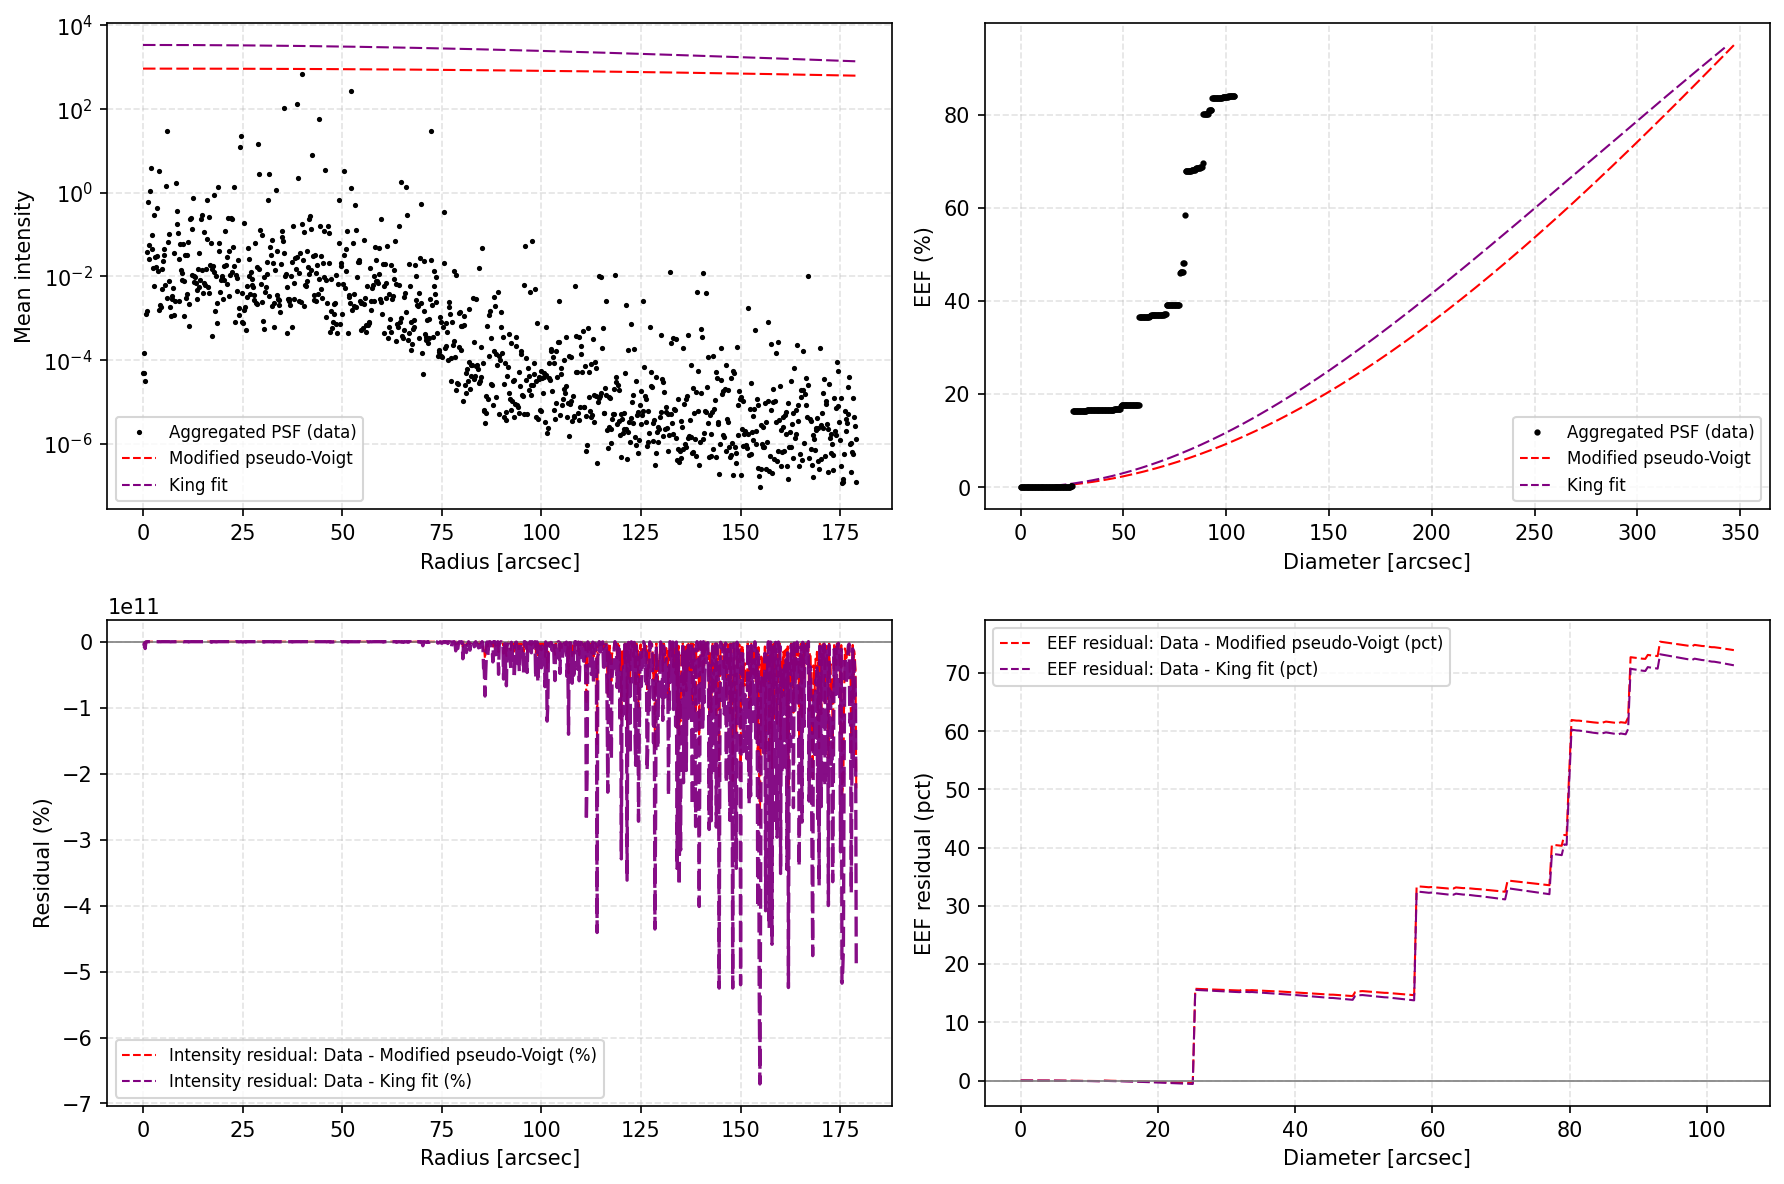
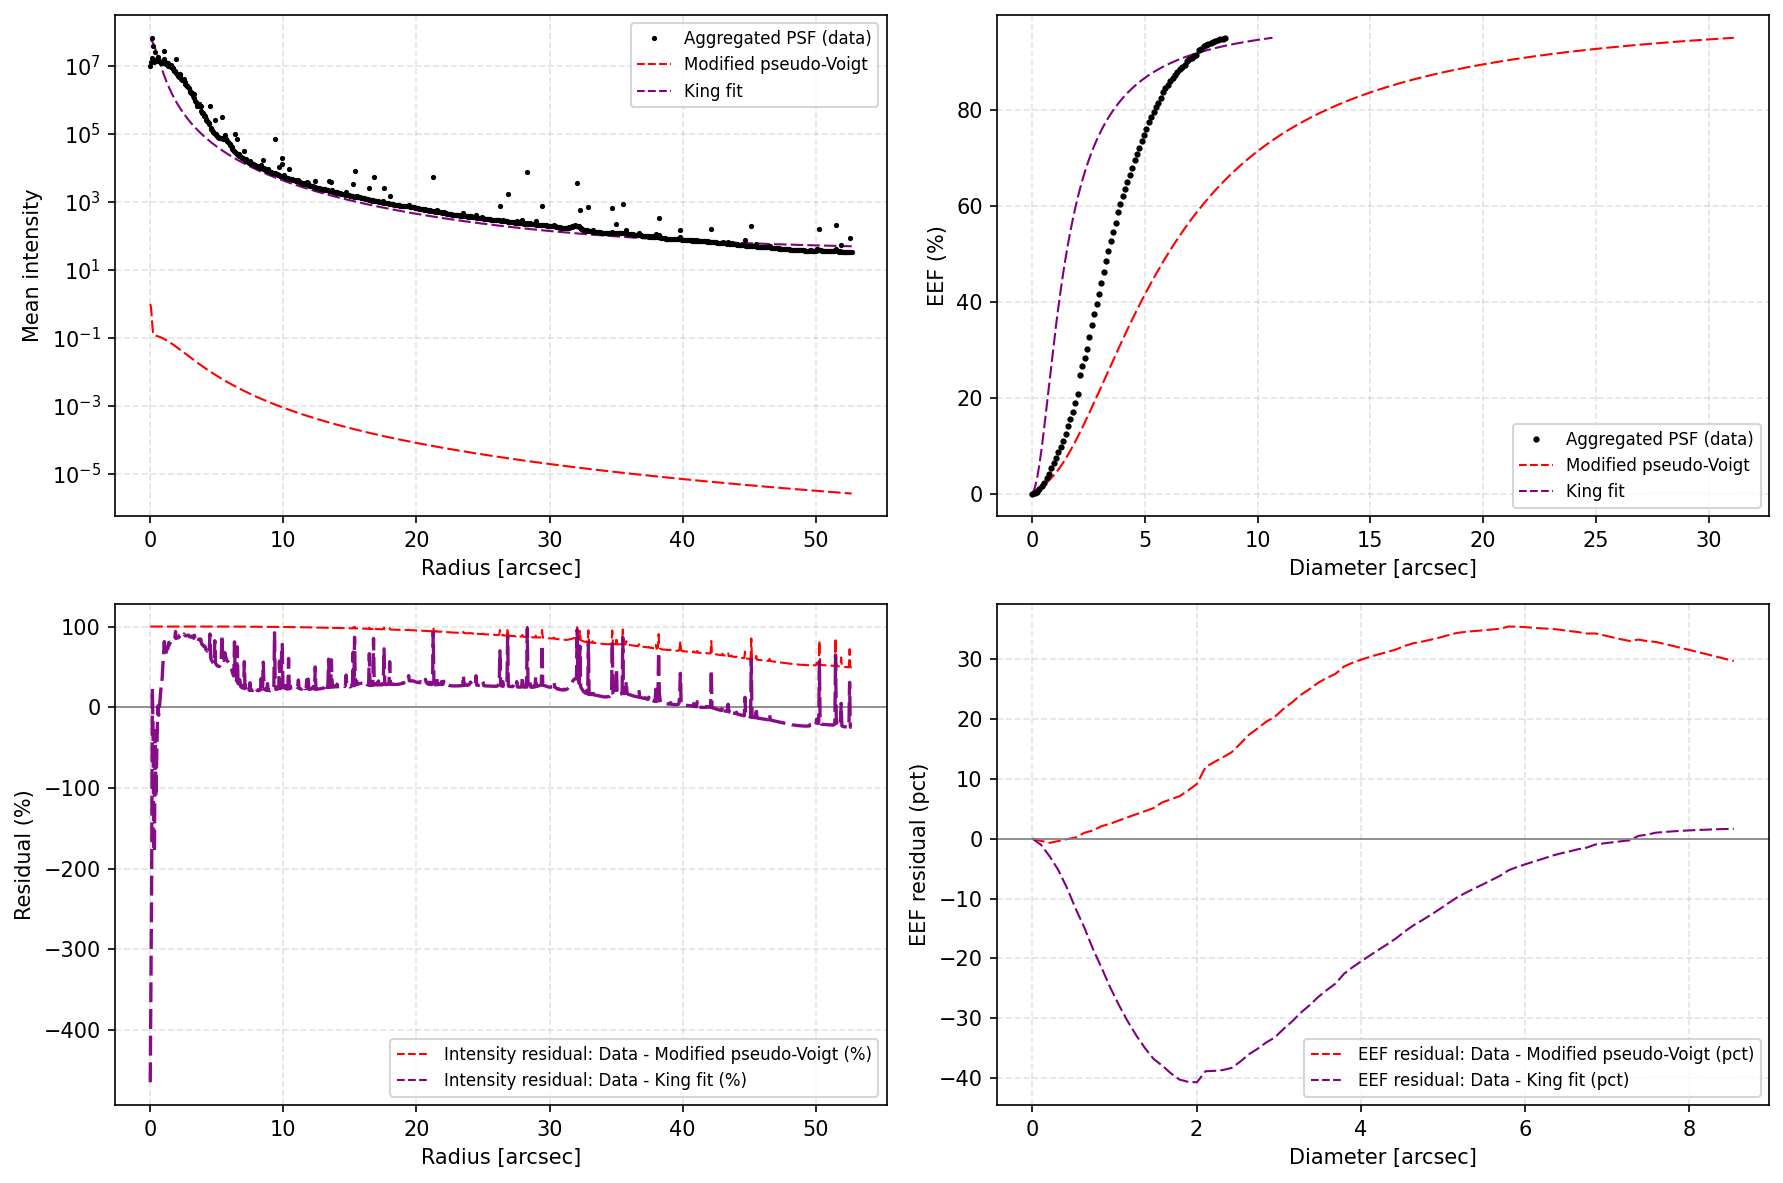
Fix MM_PSF sigma handling: resolve VLOOKUP formulas and write degraded sigma to I/J
- Add Python-based VLOOKUP fallback resolver for MM_PSF columns D/E (base
  sigma_rad/sigma_azi). When openpyxl strips cached formula values on save,
  the resolver reads 'MM configuration' (MM# → Row#) and the preset table
  at M30:Q45 (Row# → sigma_rad/sigma_azi) to reconstruct the base sigma
  values. This prevents D/E from returning NaN on subsequent runs.

- Persist D/E base sigma values as plain numbers (replacing VLOOKUP formulas)
  in both save points (initial wb.save and wb_hew.save), ensuring round-trip
  stability across openpyxl read/write cycles.

- Write per-position sigma_extra (HEW degradation converted to sigma) to
  'Extra PSF degradations' sheet columns B/C in arcsec.

- Write final degraded sigma (sqrt(base² + extra²)) to MM_PSF columns I/J
  with headers 'sigma_rad_deg [arcsec]' and 'sigma_azi_deg [arcsec]'.

- Shift preset distribution table from column K to column M in gui_distributions.py
  to avoid conflict with the new I/J degraded sigma columns.

- Update fitting_performance.png with latest aggregation results.

diff --git a/main.py b/main.py
@@ -534,6 +534,105 @@ def load_gaussians_from_excel(path: str, sheet: str | None = None, fast_metrics:
                             df.at[idx, 'sigma_rad [arcsec]'] = sigma_map_rad[mmv]
                         if mmv in sigma_map_azi:
                             df.at[idx, 'sigma_azi [arcsec]'] = sigma_map_azi[mmv]
+
+                    # Fallback: when D/E cached values are missing (openpyxl
+                    # strips formula caches on save), resolve the VLOOKUP
+                    # manually using the preset table and MM configuration.
+                    # Formula: =VLOOKUP(VLOOKUP($A,'MM configuration'!A:H,3), M31:Q45, 4/5)
+                    # Inner: MM# -> Row# via 'MM configuration' col A->C
+                    # Outer: Row# -> sigma from preset table col 4(P)/5(Q)
+                    rad_check = pd.to_numeric(df.get('sigma_rad [arcsec]'), errors='coerce')
+                    azi_check = pd.to_numeric(df.get('sigma_azi [arcsec]'), errors='coerce')
+                    missing_de = rad_check.isna() | azi_check.isna() | (rad_check <= 0.0) | (azi_check <= 0.0)
+                    if missing_de.any():
+                        try:
+                            # Build MM# -> Row# from 'MM configuration'
+                            mm_to_rownum = {}
+                            cfg_sheet = None
+                            for s in wb_vals.sheetnames:
+                                if s.lower() == 'mm configuration':
+                                    cfg_sheet = s
+                                    break
+                            if cfg_sheet is not None:
+                                ws_cfg = wb_vals[cfg_sheet]
+                                for r in range(2, (ws_cfg.max_row or 0) + 1):
+                                    pos_v = ws_cfg.cell(row=r, column=1).value
+                                    row_v = ws_cfg.cell(row=r, column=3).value
+                                    if pos_v is not None and row_v is not None:
+                                        try:
+                                            mm_to_rownum[int(float(pos_v))] = int(float(row_v))
+                                        except Exception:
+                                            pass
+
+                            # Build Row# -> (sigma_rad, sigma_azi) from preset
+                            # table in MM_PSF.  Detect preset region dynamically:
+                            # scan column M (13) for a cell containing "Row" as
+                            # header, then read rows below until blank.
+                            rownum_to_sigma = {}
+                            ws_psf_f = None
+                            try:
+                                wb_formulas = _load_wb_vals.__self__ if hasattr(_load_wb_vals, '__self__') else None
+                            except Exception:
+                                wb_formulas = None
+                            # Use the non-data_only workbook to read preset table
+                            # (it has plain values, not formulas)
+                            try:
+                                from openpyxl import load_workbook as _load_wb_f
+                                wb_f_tmp = _load_wb_f(path, data_only=False)
+                                for s in wb_f_tmp.sheetnames:
+                                    if s.lower() == 'mm_psf':
+                                        ws_psf_f = wb_f_tmp[s]
+                                        break
+                            except Exception:
+                                ws_psf_f = None
+                            if ws_psf_f is not None:
+                                # Find the preset header row (cell in col M containing "Row")
+                                preset_header_row = None
+                                for r in range(2, (ws_psf_f.max_row or 0) + 1):
+                                    v = ws_psf_f.cell(row=r, column=13).value
+                                    if v is not None and str(v).strip().lower() == 'row':
+                                        preset_header_row = r
+                                        break
+                                if preset_header_row is not None:
+                                    for r in range(preset_header_row + 1, (ws_psf_f.max_row or 0) + 1):
+                                        rv = ws_psf_f.cell(row=r, column=13).value
+                                        if rv is None:
+                                            break
+                                        sig_r = ws_psf_f.cell(row=r, column=16).value  # P = sigma_rad
+                                        sig_a = ws_psf_f.cell(row=r, column=17).value  # Q = sigma_azi
+                                        if sig_r is not None and sig_a is not None:
+                                            try:
+                                                rownum_to_sigma[int(float(rv))] = (float(sig_r), float(sig_a))
+                                            except Exception:
+                                                pass
+                                try:
+                                    wb_f_tmp.close()
+                                except Exception:
+                                    pass
+
+                            # Apply resolved VLOOKUP values
+                            if mm_to_rownum and rownum_to_sigma:
+                                resolved_count = 0
+                                for idx in df.index:
+                                    try:
+                                        mmv = int(pd.to_numeric(df.at[idx, 'MM #'], errors='coerce'))
+                                    except Exception:
+                                        continue
+                                    cur_rad = pd.to_numeric(df.at[idx, 'sigma_rad [arcsec]'], errors='coerce')
+                                    cur_azi = pd.to_numeric(df.at[idx, 'sigma_azi [arcsec]'], errors='coerce')
+                                    if pd.notna(cur_rad) and cur_rad > 0 and pd.notna(cur_azi) and cur_azi > 0:
+                                        continue  # already has valid values
+                                    rn = mm_to_rownum.get(mmv)
+                                    if rn is not None and rn in rownum_to_sigma:
+                                        sr, sa = rownum_to_sigma[rn]
+                                        df.at[idx, 'sigma_rad [arcsec]'] = sr
+                                        df.at[idx, 'sigma_azi [arcsec]'] = sa
+                                        resolved_count += 1
+                                if resolved_count:
+                                    print(f"INFO: resolved D/E VLOOKUP for {resolved_count} MMs from preset table")
+                        except Exception:
+                            pass
+
                     # If after attempting to map D/E values any required sigma cells
                     # remain missing, fail loudly — the workbook must contain cached
                     # numeric values for D/E. Ask user to re-save the Excel file with
@@ -2692,6 +2791,38 @@ def load_gaussians_from_excel(path: str, sheet: str | None = None, fast_metrics:
                 except Exception as e:
                     print(f"HEW_DEG: error processing sheets: {e}")
 
+                # Persist base sigma values (D/E) as plain numbers so they
+                # survive openpyxl round-trips (openpyxl strips formula caches).
+                try:
+                    ws_psf_de = None
+                    for s in wb.sheetnames:
+                        if s.lower() == 'mm_psf':
+                            ws_psf_de = wb[s]
+                            break
+                    if ws_psf_de is not None and 'MM #' in df.columns and 'sigma_rad [arcsec]' in df.columns:
+                        mm_to_row_de = {}
+                        for r in range(2, (ws_psf_de.max_row or 0) + 1):
+                            v = ws_psf_de.cell(row=r, column=1).value
+                            if v is not None:
+                                try:
+                                    mm_to_row_de[int(float(v))] = r
+                                except Exception:
+                                    pass
+                        written_de = 0
+                        for idx_de, row_de in df.iterrows():
+                            mm_de = int(row_de['MM #'])
+                            r_de = mm_to_row_de.get(mm_de)
+                            if r_de is None:
+                                continue
+                            ws_psf_de.cell(row=r_de, column=4, value=float(row_de['sigma_rad [arcsec]']))
+                            ws_psf_de.cell(row=r_de, column=5, value=float(row_de['sigma_azi [arcsec]']))
+                            written_de += 1
+                        print(f"HEW_DEG: persisted base sigma to MM_PSF D/E for {written_de} MMs")
+                    else:
+                        print(f"HEW_DEG: skipped D/E write: ws_psf_de={ws_psf_de is not None}, MM#={'MM #' in df.columns}, sigma_rad={'sigma_rad [arcsec]' in df.columns}")
+                except Exception as e_de:
+                    print(f"HEW_DEG: error writing D/E: {e_de}")
+
                 tmpf = tempfile.NamedTemporaryFile(delete=False, suffix='.xlsx')
                 tmpf.close()
                 wb.save(tmpf.name)
@@ -2904,9 +3035,20 @@ def load_gaussians_from_excel(path: str, sheet: str | None = None, fast_metrics:
     # Apply HEW degradation broadening to sigma_rad and sigma_azi.
     # new_sigma = sqrt(sigma^2 + (hew_deg / (2*sqrt(2*ln(2))))^2)
     # The factor 2*sqrt(2*ln(2)) converts FWHM (HEW) to Gaussian sigma.
+    # DataFrame sigma values are in metres (arcsec * arcsec_to_m at load);
+    # HEW degradation values are in arcsec, so convert to metres first.
     if hew_deg_per_pos_rad or hew_deg_per_pos_azi:
         _fwhm_to_sigma = 2.0 * np.sqrt(2.0 * np.log(2.0))  # ~2.3548
-        arcsec_to_m = 12.0 * np.pi / 180.0 / 3600.0
+        _arcsec_to_m = 12.0 * np.pi / 180.0 / 3600.0
+        # Collect per-position sigma_extra in arcsec for "Extra PSF degradations"
+        _sigma_extra_rad_arcsec = {}  # pos -> arcsec
+        _sigma_extra_azi_arcsec = {}  # pos -> arcsec
+        for pos_int, hew_val in hew_deg_per_pos_rad.items():
+            if hew_val is not None and hew_val > 0:
+                _sigma_extra_rad_arcsec[pos_int] = hew_val / _fwhm_to_sigma
+        for pos_int, hew_val in hew_deg_per_pos_azi.items():
+            if hew_val is not None and hew_val > 0:
+                _sigma_extra_azi_arcsec[pos_int] = hew_val / _fwhm_to_sigma
         broadened_rad = 0
         broadened_azi = 0
         for idx, row in df.iterrows():
@@ -2917,19 +3059,117 @@ def load_gaussians_from_excel(path: str, sheet: str | None = None, fast_metrics:
             # Radial broadening from rotrad HEW degradation
             hew_rad = hew_deg_per_pos_rad.get(pos)
             if hew_rad is not None and hew_rad > 0:
-                sigma_extra = (hew_rad / _fwhm_to_sigma) * arcsec_to_m
+                sigma_extra = (hew_rad / _fwhm_to_sigma) * _arcsec_to_m
                 old_sigma = float(df.at[idx, 'sigma_rad'])
                 df.at[idx, 'sigma_rad'] = np.sqrt(old_sigma**2 + sigma_extra**2)
                 broadened_rad += 1
             # Azimuthal broadening from rotazi HEW degradation
             hew_azi = hew_deg_per_pos_azi.get(pos)
             if hew_azi is not None and hew_azi > 0:
-                sigma_extra = (hew_azi / _fwhm_to_sigma) * arcsec_to_m
+                sigma_extra = (hew_azi / _fwhm_to_sigma) * _arcsec_to_m
                 old_sigma = float(df.at[idx, 'sigma_azi'])
                 df.at[idx, 'sigma_azi'] = np.sqrt(old_sigma**2 + sigma_extra**2)
                 broadened_azi += 1
         if broadened_rad or broadened_azi:
             print(f"HEW_DEG broadening: {broadened_rad} sigma_rad, {broadened_azi} sigma_azi")
+
+        # Write sigma_extra per position to "Extra PSF degradations" sheet
+        # and final degraded sigma per MM to MM_PSF columns I/J.
+        # DataFrame values are in metres; convert back to arcsec for sheets.
+        _m_to_arcsec = 1.0 / _arcsec_to_m
+        try:
+            from openpyxl import load_workbook as _load_wb_hew
+            wb_hew = _load_wb_hew(path)
+
+            # --- "Extra PSF degradations" sheet: sigma_extra per position ---
+            ws_extra_deg = None
+            for s in wb_hew.sheetnames:
+                if 'extra' in s.lower() and 'degradation' in s.lower():
+                    ws_extra_deg = wb_hew[s]
+                    break
+            if ws_extra_deg is not None:
+                # Build Position# -> row mapping from column A
+                pos_to_row_extra = {}
+                for r in range(2, (ws_extra_deg.max_row or 0) + 1):
+                    v = ws_extra_deg.cell(row=r, column=1).value
+                    if v is not None:
+                        try:
+                            pos_to_row_extra[int(float(v))] = r
+                        except Exception:
+                            pass
+                written_extra = 0
+                for pos_int, r_extra in pos_to_row_extra.items():
+                    se_rad = _sigma_extra_rad_arcsec.get(pos_int, 0.0)
+                    se_azi = _sigma_extra_azi_arcsec.get(pos_int, 0.0)
+                    ws_extra_deg.cell(row=r_extra, column=2, value=float(se_rad))
+                    ws_extra_deg.cell(row=r_extra, column=3, value=float(se_azi))
+                    written_extra += 1
+                print(f"HEW_DEG: wrote sigma_extra to 'Extra PSF degradations' for {written_extra} positions")
+
+            # --- MM_PSF columns I/J: final degraded sigma per MM ---
+            ws_hew_psf = None
+            for s in wb_hew.sheetnames:
+                if s.lower() == 'mm_psf':
+                    ws_hew_psf = wb_hew[s]
+                    break
+            if ws_hew_psf is not None:
+                # Write headers
+                ws_hew_psf.cell(row=1, column=9, value='sigma_rad_deg [arcsec]')
+                ws_hew_psf.cell(row=1, column=10, value='sigma_azi_deg [arcsec]')
+                # Build MM# -> row mapping from column A
+                mm_to_row_hew = {}
+                for r in range(2, (ws_hew_psf.max_row or 0) + 1):
+                    v = ws_hew_psf.cell(row=r, column=1).value
+                    if v is not None:
+                        try:
+                            mm_to_row_hew[int(float(v))] = r
+                        except Exception:
+                            pass
+                written_ij = 0
+                for idx_hew, row_hew in df.iterrows():
+                    mm_num_hew = int(row_hew['MM #'])
+                    r_hew = mm_to_row_hew.get(mm_num_hew)
+                    if r_hew is None:
+                        continue
+                    ws_hew_psf.cell(row=r_hew, column=9, value=float(row_hew['sigma_rad']) * _m_to_arcsec)
+                    ws_hew_psf.cell(row=r_hew, column=10, value=float(row_hew['sigma_azi']) * _m_to_arcsec)
+                    written_ij += 1
+                print(f"HEW_DEG: wrote degraded sigma to MM_PSF cols I/J for {written_ij} MMs")
+
+            # Persist base sigma (D/E) as plain numbers in this save cycle too
+            if ws_hew_psf is not None and 'sigma_rad [arcsec]' in df.columns:
+                written_de2 = 0
+                for idx_de2, row_de2 in df.iterrows():
+                    mm_de2 = int(row_de2['MM #'])
+                    r_de2 = mm_to_row_hew.get(mm_de2)
+                    if r_de2 is None:
+                        continue
+                    val_d = row_de2['sigma_rad [arcsec]']
+                    val_e = row_de2['sigma_azi [arcsec]']
+                    if pd.notna(val_d):
+                        ws_hew_psf.cell(row=r_de2, column=4, value=float(val_d))
+                    if pd.notna(val_e):
+                        ws_hew_psf.cell(row=r_de2, column=5, value=float(val_e))
+                    written_de2 += 1
+                print(f"HEW_DEG: persisted base sigma to MM_PSF D/E (wb_hew) for {written_de2} MMs")
+
+            # Save workbook if any sheet was modified
+            if ws_extra_deg is not None or ws_hew_psf is not None:
+                import tempfile as _tmpf_hew
+                tmpf_hew = _tmpf_hew.NamedTemporaryFile(delete=False, suffix='.xlsx')
+                tmpf_hew.close()
+                wb_hew.save(tmpf_hew.name)
+                os.replace(tmpf_hew.name, path)
+                if ws_extra_deg is not None:
+                    print(f"HEW_DEG: saved sigma_extra to 'Extra PSF degradations'")
+                if ws_hew_psf is not None:
+                    print(f"HEW_DEG: saved degraded sigma to cols I/J for {written_ij} MMs")
+            try:
+                wb_hew.close()
+            except Exception:
+                pass
+        except Exception as e:
+            print(f"HEW_DEG: error writing degraded sigma to MM_PSF: {e}")
 
     # Copy sigma values
     df['sigmax'] = df['sigma_rad']

diff --git a/gui_distributions.py b/gui_distributions.py
@@ -612,14 +612,15 @@ class ExtendedGUI:
             messagebox.showerror('Error', str(e))
     
     def load_standard_distributions(self, df):
-        """Load standard MM_PSF distribution definitions from Excel table starting at K1."""
+        """Load standard MM_PSF distribution definitions from Excel table starting at M1."""
         self.standard_distributions = {}
         
         try:
-            # Find the table starting at K1 (column 10, row 0 in 0-indexed)
+            # Find the table starting at M1 (column 12, row 0 in 0-indexed)
+            # Columns I-J hold degraded sigma_rad/sigma_azi; K-L are reserved.
             # Expected format: Name | sigma_rad | sigma_azi | alpha_rad | alpha_azi
-            start_row = 0  # K1 is row 1, 0-indexed = 0
-            start_col = 10  # K is column 11, 0-indexed = 10
+            start_row = 0  # M1 is row 1, 0-indexed = 0
+            start_col = 12  # M is column 13, 0-indexed = 12
             
             # Check if there's a header row
             if df.shape[0] <= start_row or df.shape[1] <= start_col: